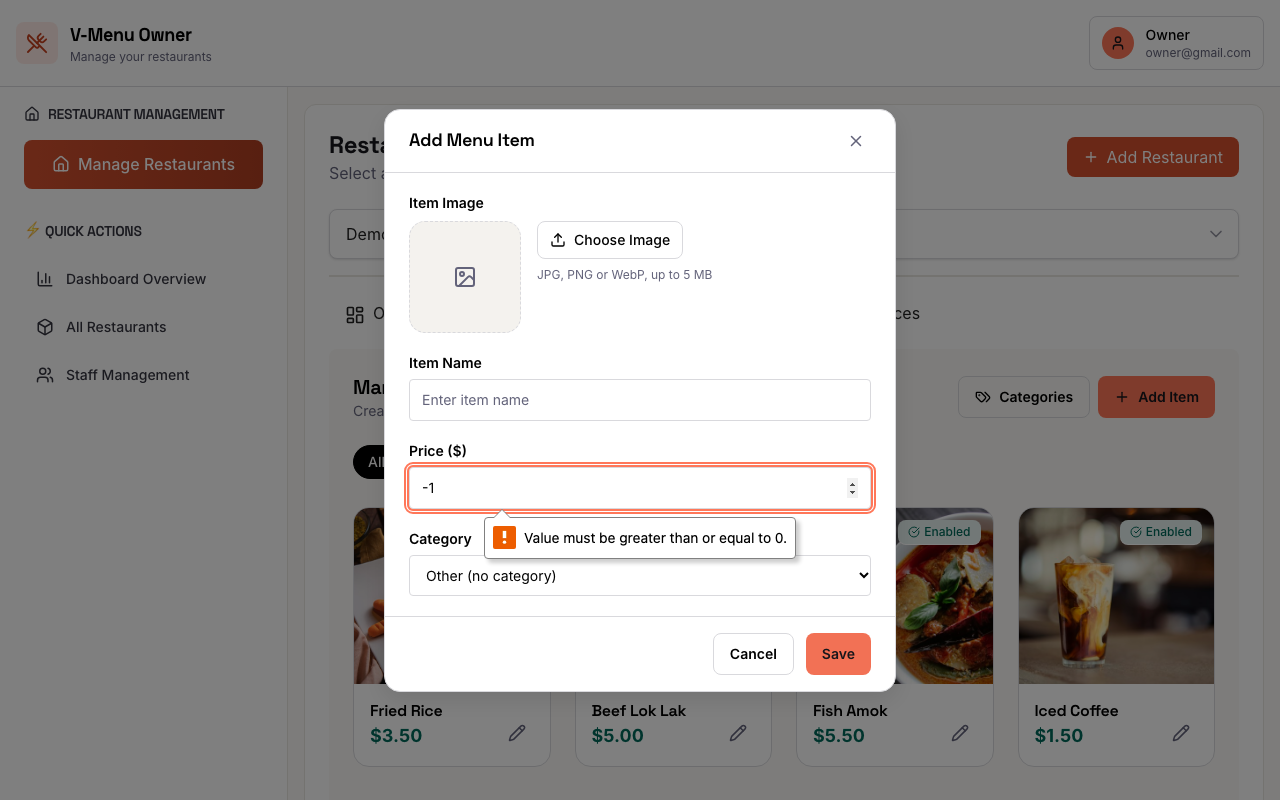
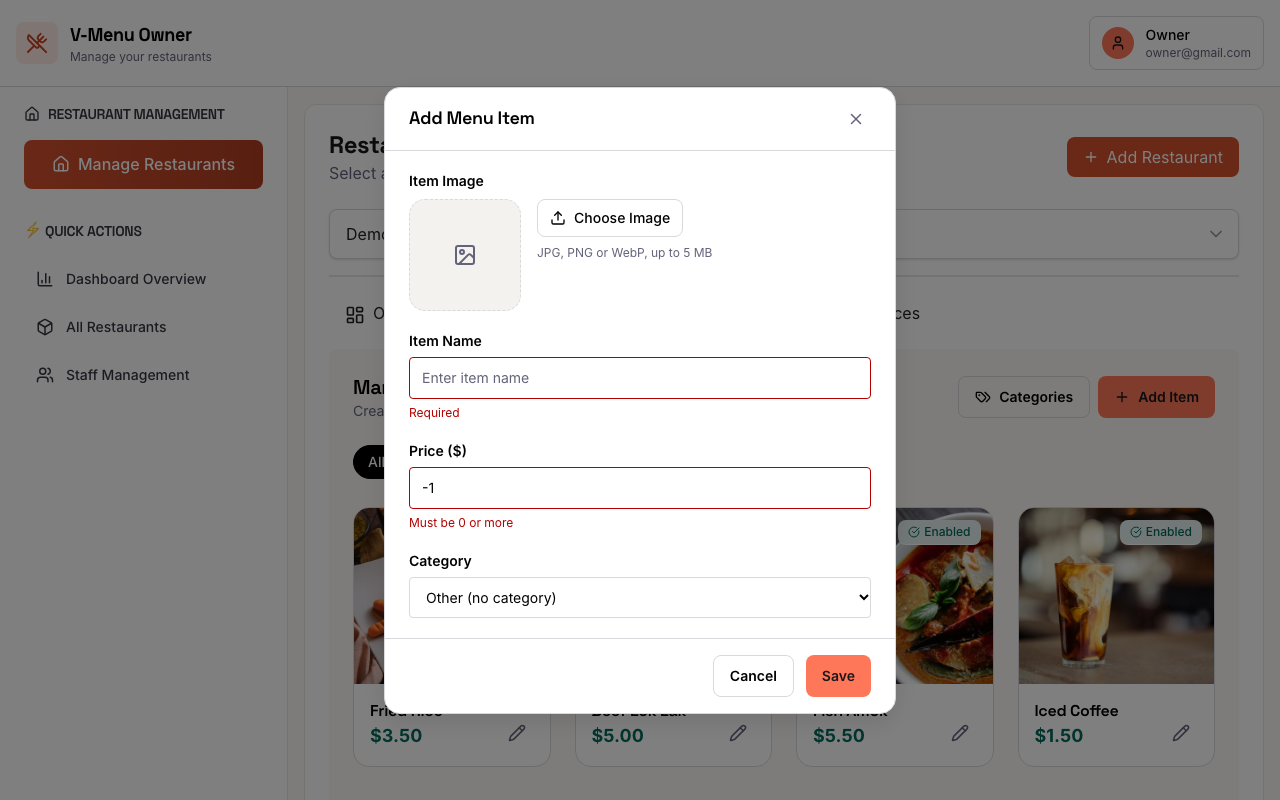
fix: VM-17 item popups show our messages in a real browser; a price has at most 2 decimals

diff --git a/frontend/src/features/restaurant/components/ItemForm.tsx b/frontend/src/features/restaurant/components/ItemForm.tsx
@@ -93,7 +93,7 @@ export default function ItemForm({ item, categories, onClose, onSave, onDelete }
 
     return (
         <Modal title={item ? "Edit Menu Item" : "Add Menu Item"} onClose={onClose} footer={footer}>
-            <form id={formId} onSubmit={submit} className="space-y-5">
+            <form id={formId} onSubmit={submit} noValidate className="space-y-5">
                 <div className="space-y-2">
                     <span className="block text-sm font-semibold">Item Image</span>
                     <div className="flex items-start gap-4">

diff --git a/frontend/src/features/restaurant/item-rules.ts b/frontend/src/features/restaurant/item-rules.ts
@@ -15,5 +15,6 @@ export function checkItem({ name, price }: { name: string; price: string }): Ite
     if (!price.trim()) errors.price = "Required";
     else if (!Number.isFinite(Number(price))) errors.price = "Must be a number";
     else if (Number(price) < 0) errors.price = "Must be 0 or more";
+    else if (Number(Number(price).toFixed(2)) !== Number(price)) errors.price = "At most 2 decimal places";
     return errors;
 }

diff --git a/backend/packages/contracts/src/menu.ts b/backend/packages/contracts/src/menu.ts
@@ -11,7 +11,8 @@ const Price = z.preprocess(
         .number({
             error: ({ input }) => (input === undefined || (typeof input === "string" && !input.trim()) ? "Required" : "Must be a number"),
         })
-        .min(0, "Must be 0 or more"),
+        .min(0, "Must be 0 or more")
+        .refine((v) => Number(v.toFixed(2)) === v, "At most 2 decimal places"),
 );
 
 export const CreateItemBody = z.object({
